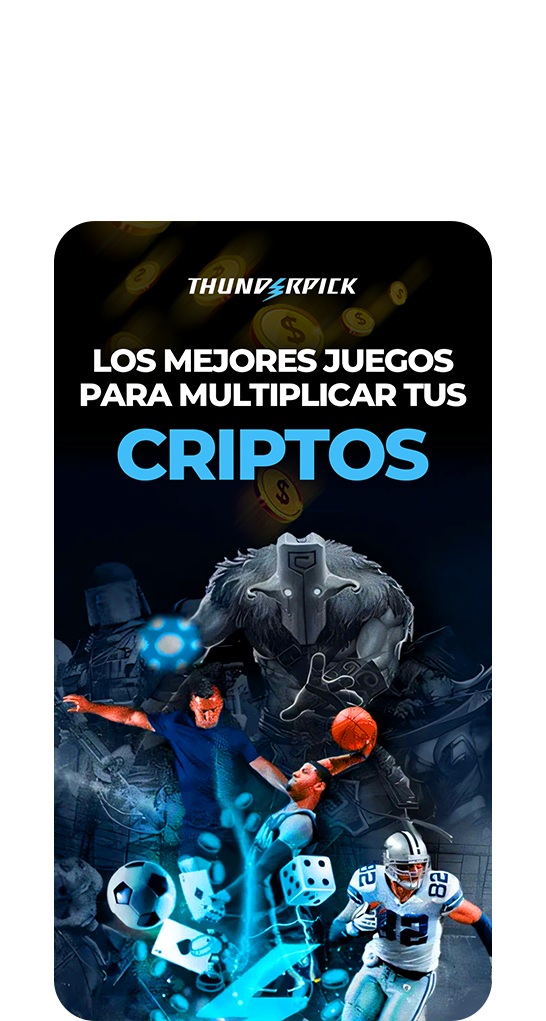
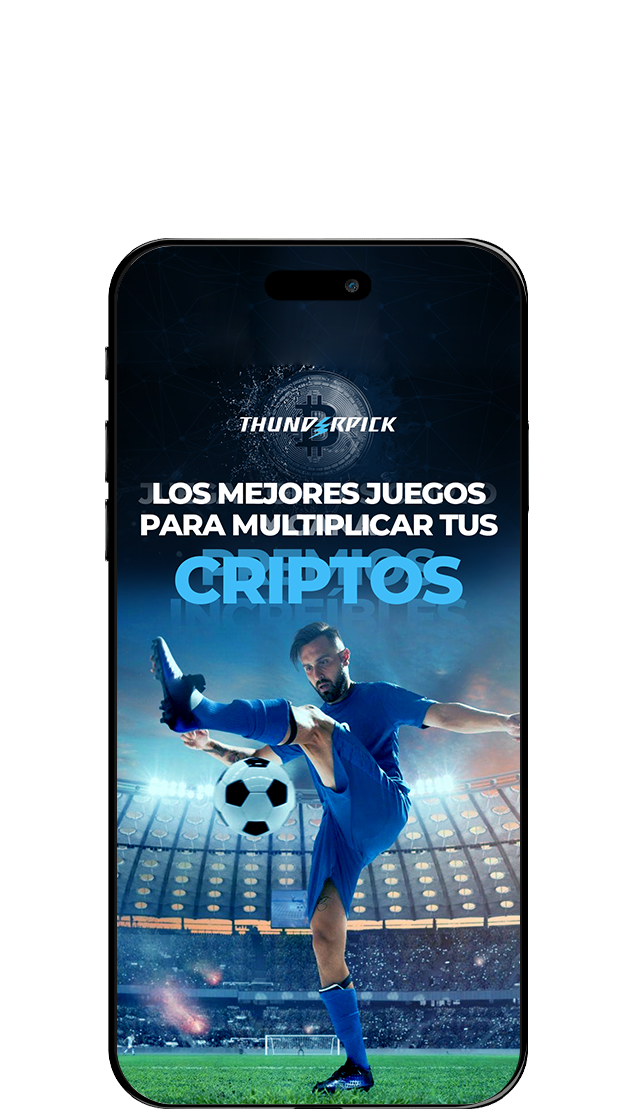
feat(miela mobile): add 10th mobile frame and extend swipe range to 0–9; keep transitions unchanged

diff --git a/src/pages/CreativeDesignerCaseDetail.jsx b/src/pages/CreativeDesignerCaseDetail.jsx
@@ -18,6 +18,7 @@ const mielaImageMobile6 = `${import.meta.env.BASE_URL}miela-6-mobile.png`
 const mielaImageMobile7 = `${import.meta.env.BASE_URL}miela-7-mobile.png`
 const mielaImageMobile8 = `${import.meta.env.BASE_URL}miela-8-mobile.png`
 const mielaImageMobile9 = `${import.meta.env.BASE_URL}miela-9-mobile.png`
+const mielaImageMobile10 = `${import.meta.env.BASE_URL}miela-10-mobile.png`
 const bImgs = [1,2,3,4,5,6].map(n => `${import.meta.env.BASE_URL}b${n}.png`)
 
 // Logo sources (black + white variants) from images/, with public/ fallbacks on error
@@ -158,7 +159,7 @@ function CreativeDesignerCaseDetail() {
     if (now - lastStepTimeRef.current < 60) return
     setMobileFrame((i) => {
       const dir = dy < 0 ? 1 : -1
-      return Math.min(8, Math.max(0, i + dir))
+      return Math.min(9, Math.max(0, i + dir))
     })
     lastStepTimeRef.current = now
     lastInputRef.current = { type: 'touch', t: now }
@@ -295,6 +296,15 @@ function CreativeDesignerCaseDetail() {
                   className="swap-img absolute left-1/2 top-1/2 -translate-x-1/2 -translate-y-[60%] h-[60vh] w-auto max-w-[94vw] object-contain"
                   style={{ opacity: mobileFrame === 8 ? 1 : 0 }}
                   onError={(e) => { e.currentTarget.onerror = null; e.currentTarget.src = '/miela-9-mobile.png' }}
+                />
+                <img
+                  src={mielaImageMobile10}
+                  alt="Miela case artwork 10 (mobile)"
+                  decoding="async"
+                  loading="eager"
+                  className="swap-img absolute left-1/2 top-1/2 -translate-x-1/2 -translate-y-[60%] h-[60vh] w-auto max-w-[94vw] object-contain"
+                  style={{ opacity: mobileFrame === 9 ? 1 : 0 }}
+                  onError={(e) => { e.currentTarget.onerror = null; e.currentTarget.src = '/miela-10-mobile.png' }}
                 />
               </div>
             </div>
